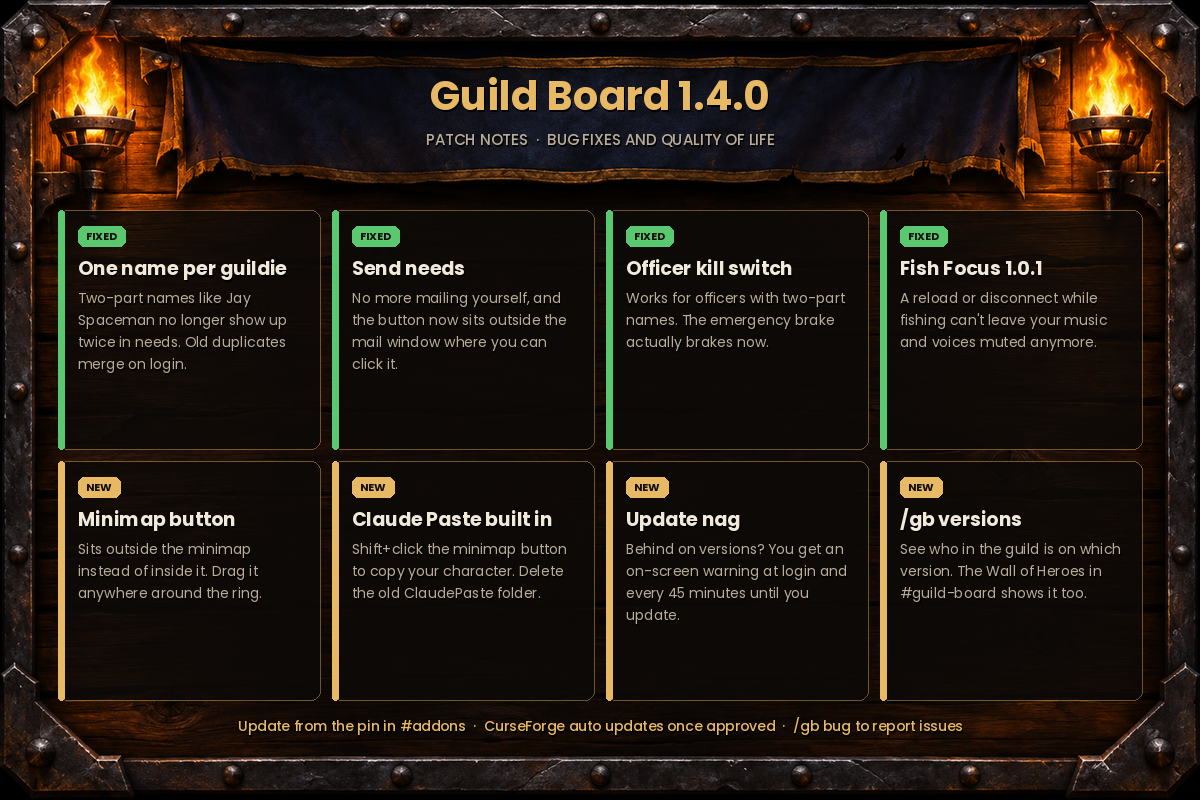
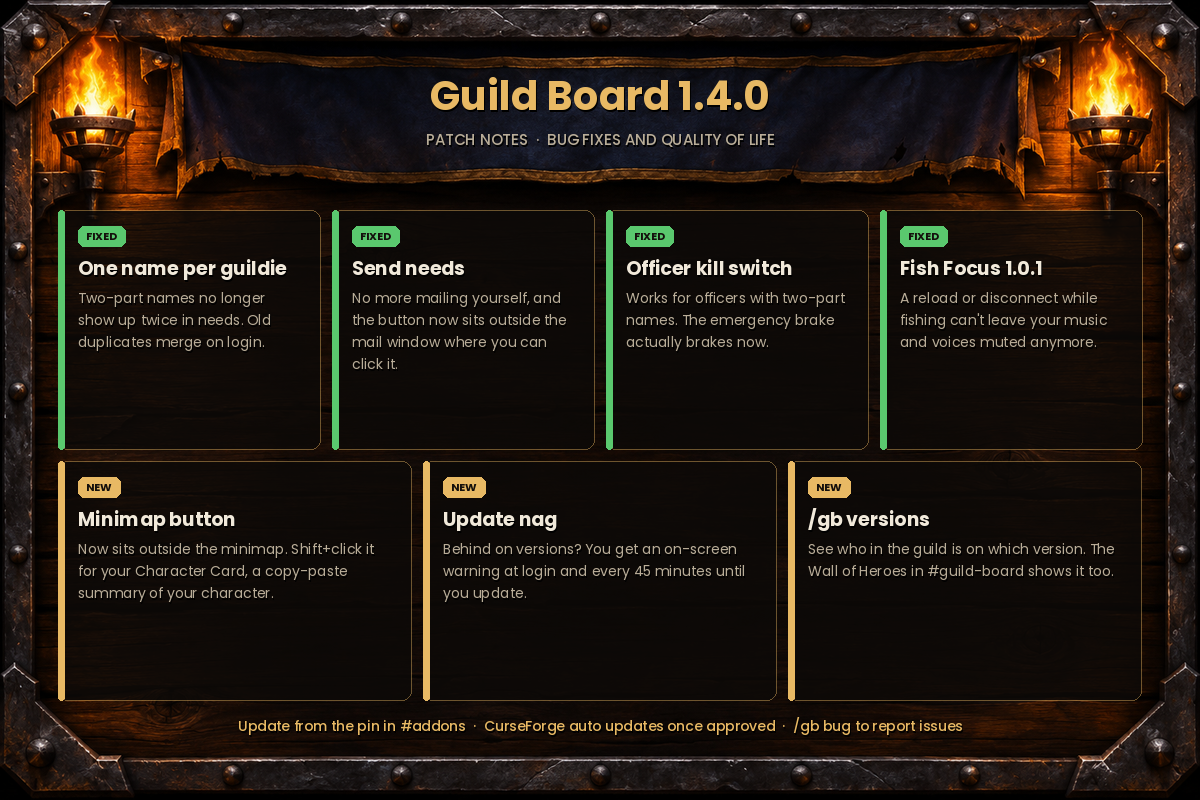
Rename Claude Paste to Character Card; one minimap card on the 1.4.0 board
Claude-Session: https://claude.ai/code/session_017jBnoerXW5TER9o671YU2g

Changed region(s): [[0.0617, 0.5625, 0.925, 0.875], [0.0617, 0.3438, 0.2467, 0.4688]]

diff --git a/CHANGELOG.md b/CHANGELOG.md
@@ -3,13 +3,12 @@
 ## Guild Board
 
 ### 1.4.0 (2026-11-15)
-- Fixed: guildies with a two-part name (like Jay Spaceman) showed up twice in needs, and "Send needs" could address a mail to yourself. Old duplicate entries are merged on login. (reported by jspaceman)
-- Fixed: the "Send needs" button was hidden behind the mail window; it now sits just outside its top right corner. (reported by jspaceman)
+- Fixed: guildies with a two-part name showed up twice in needs, and "Send needs" could address a mail to yourself. Old duplicate entries are merged on login.
+- Fixed: the "Send needs" button was hidden behind the mail window; it now sits just outside its top right corner.
 - Fixed: officers with a two-part name could not use the kill switch.
 - Fixed: bug reports showed "(nil)" for the game build.
 - The minimap button now sits outside the minimap's edge instead of inside it. Drag it around the ring as before.
-- The separate Claude Paste addon is retired. Its feature lives in Guild Board now; you can delete the old ClaudePaste folder.
-- Claude Paste is built in: Shift+click the minimap button (or /gb paste, /cp) to copy your character summary.
+- New Character Card: Shift+click the minimap button (or /gb card, /cp) to copy your character summary. It replaces the separate Claude Paste addon; you can delete the old ClaudePaste folder.
 - Out of date? The addon now nags you on screen with a raid warning at login and every 45 minutes until you update.
 - `/gb versions` shows which guildies are on which version (green = newest, orange = needs to update).
 

diff --git a/README.md b/README.md
@@ -40,7 +40,7 @@ Useful ones to make:
 |---|---|---|
 | Board | `/gb` | Opens the guild roster |
 | Run | `/gb run` | Opens the report for the dungeon or raid you just did |
-| Paste | Shift+click the minimap button, `/gb paste` or `/cp` | Your character summary to copy and paste (Claude Paste is now built into Guild Board) |
+| Character Card | Shift+click the minimap button, `/gb card` or `/cp` | Your character summary to copy and paste (replaces the old Claude Paste addon) |
 
 ## Post it in Discord
 
